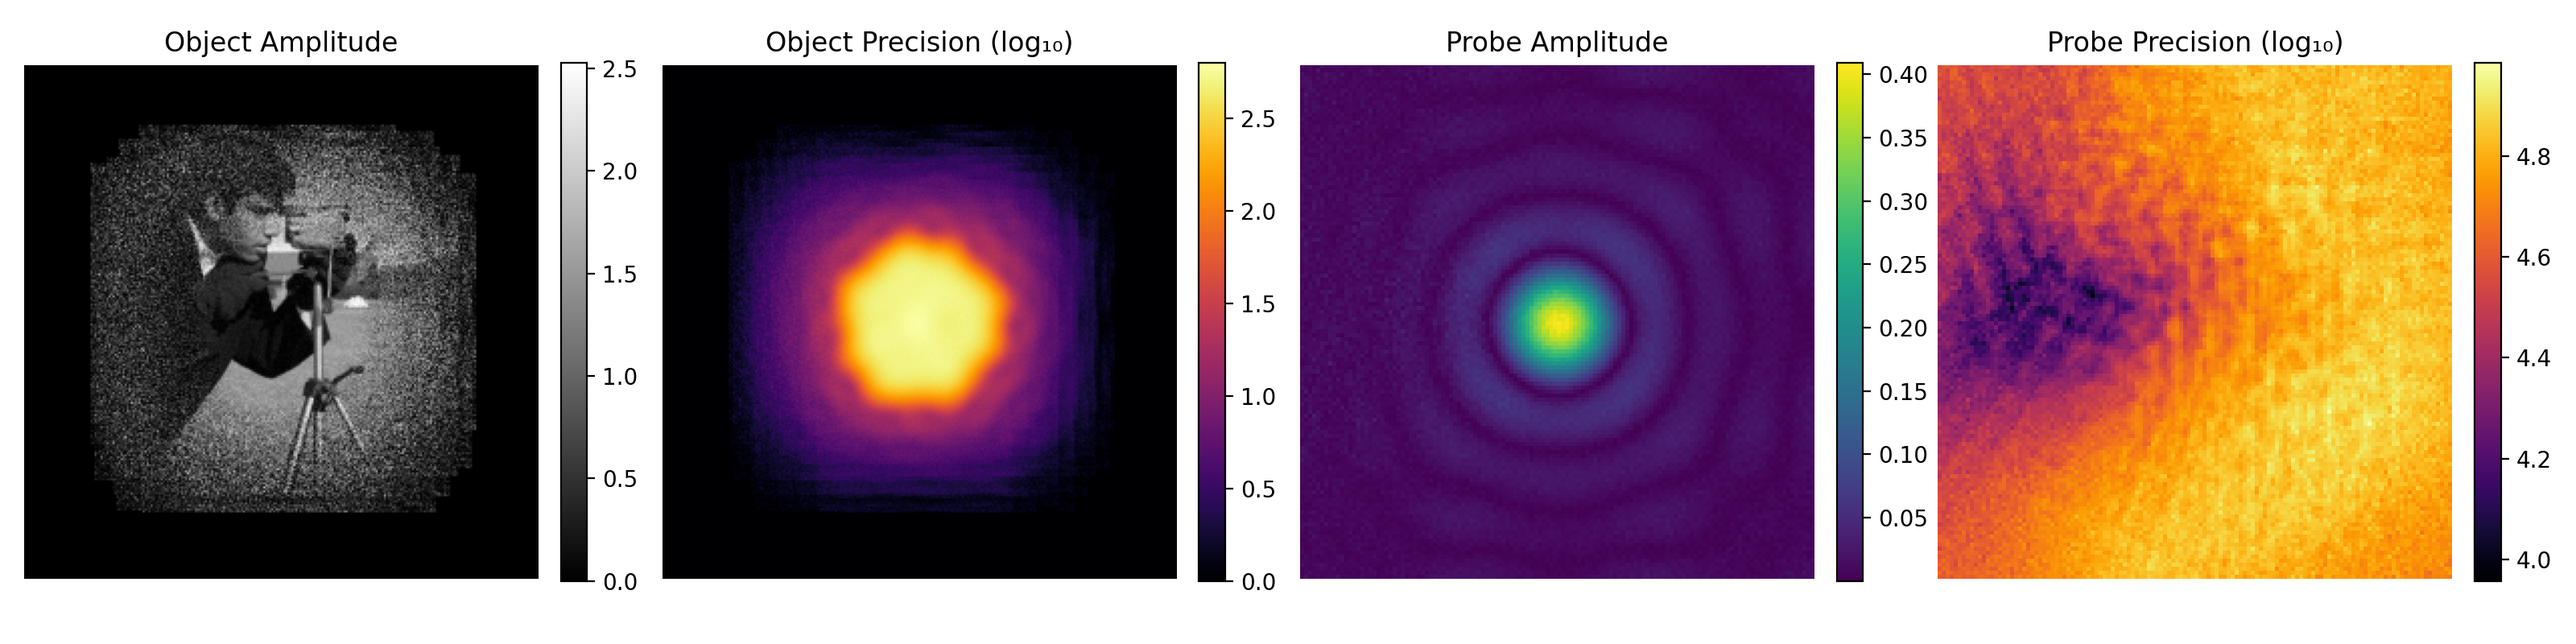
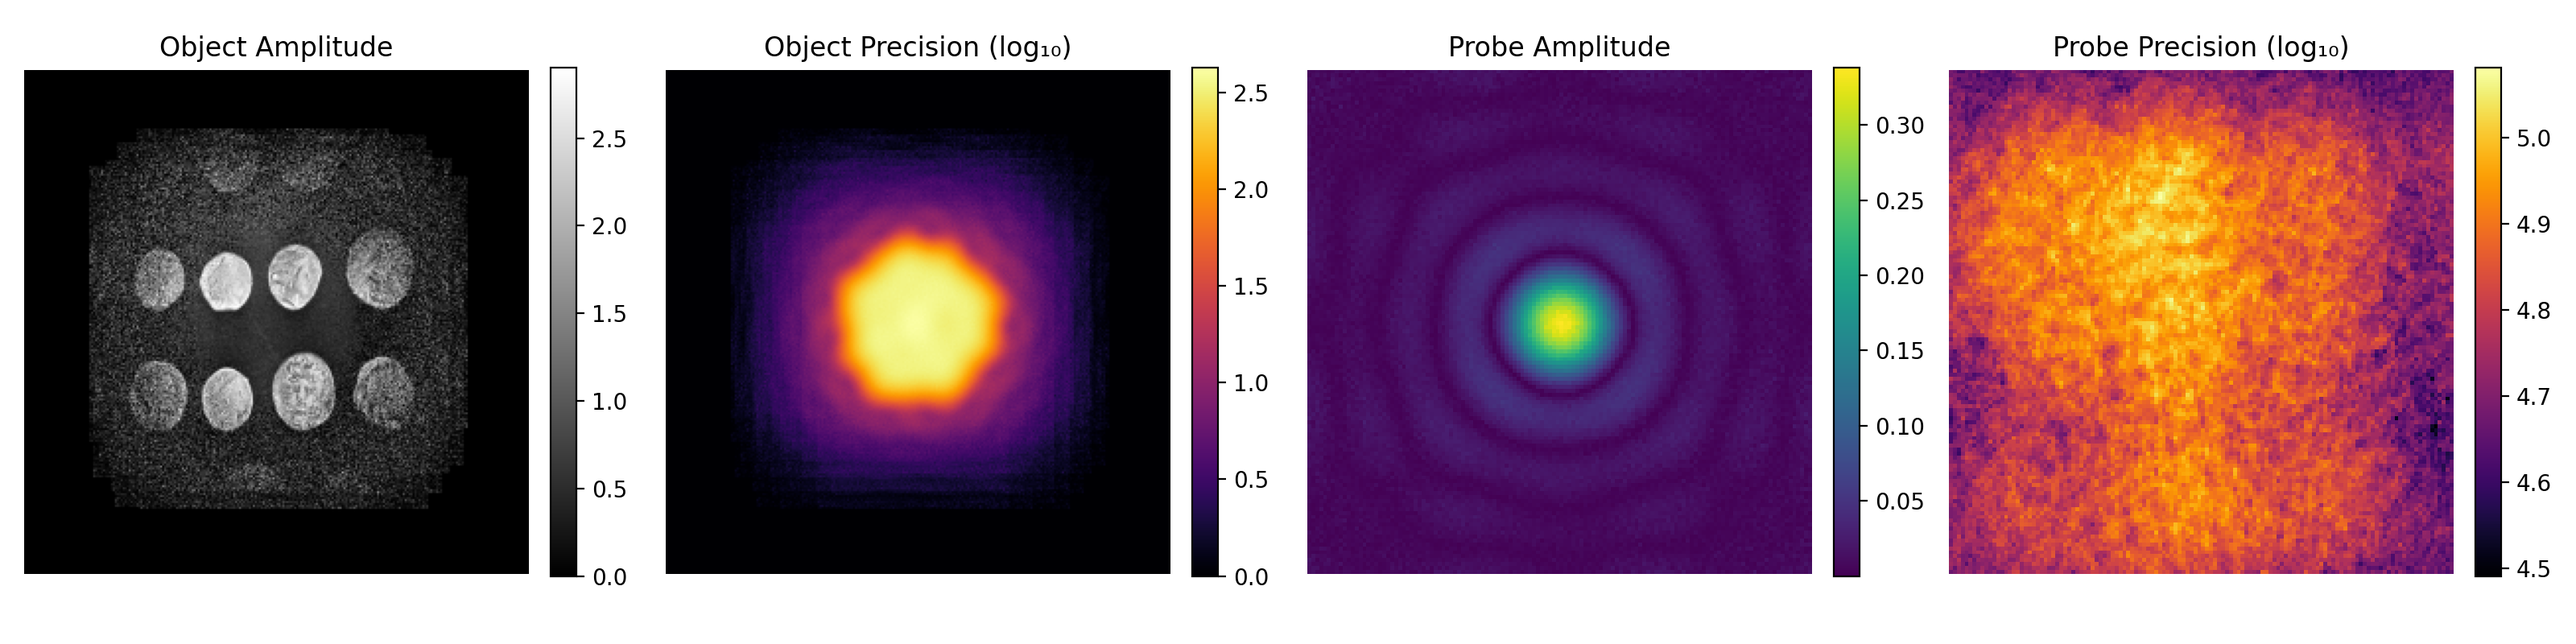
make factors cache previous messages it sent

Changed region(s): [[0.0, 0.0312, 1.0, 0.9062], [0.2812, 0.6562, 0.4062, 0.8125], [0.5938, 0.4688, 0.625, 0.5312]]

diff --git a/gpie/graph/factor.py b/gpie/graph/factor.py
@@ -54,9 +54,13 @@ class Factor(ABC):
         self.inputs: dict[str, Wave] = {}
         self.output: Optional[Wave] = None
 
-        # Messages
+        # Messages coming inward
         self.input_messages: dict[Wave, Optional[UncertainArray]] = {}
         self.output_message: Optional[UncertainArray] = None
+
+        # Messages goint outward
+        self.last_forward_message: Optional[UncertainArray] = None
+        self.last_backward_messages: dict[Wave, UncertainArray] = {}
 
         # Scheduling & precision
         self._generation: Optional[int] = None
@@ -198,6 +202,13 @@ class Factor(ABC):
             self.output_message = message
         else:
             raise ValueError("Received message from unconnected Wave.")
+
+    def _store_forward_message(self, msg: UncertainArray):
+        self.last_forward_message = msg
+
+    def _store_backward_message(self, wave: Wave, msg: UncertainArray):
+        self.last_backward_messages[wave] = msg
+
 
     def get_sample_for_output(self, rng) -> np().ndarray:
         """

diff --git a/examples/scripts/blind_ptychography_with_phase/blind_ptychography_with_phase.py b/examples/scripts/blind_ptychography_with_phase/blind_ptychography_with_phase.py
@@ -58,8 +58,8 @@ def build_dataset(size=256, noise=1e-3, n_scans=50):
     obj_shape = (size, size)
 
     # --- Ground truth object ---
-    amp = load_sample_image("camera", shape=obj_shape)
-    phase = load_sample_image("coins", shape=obj_shape)
+    amp = load_sample_image("coins", shape=obj_shape)
+    phase = load_sample_image("moon", shape=obj_shape)
     obj = amp * np.exp(1j * phase)
 
     # --- Probe generation ---

diff --git a/README.md b/README.md
@@ -108,7 +108,7 @@ gpie/
 ## What's New
 See [CHANGELOG.md](./CHANGELOG.md) for full release notes.
 
-**v2.2.0**: Adaptive Damping (auto-tuning) and multiple initialization strategies.
+**v0.2.0**: Adaptive Damping (auto-tuning) and multiple initialization strategies.
 
 ## Quick Start (Ptychography Example)
 
